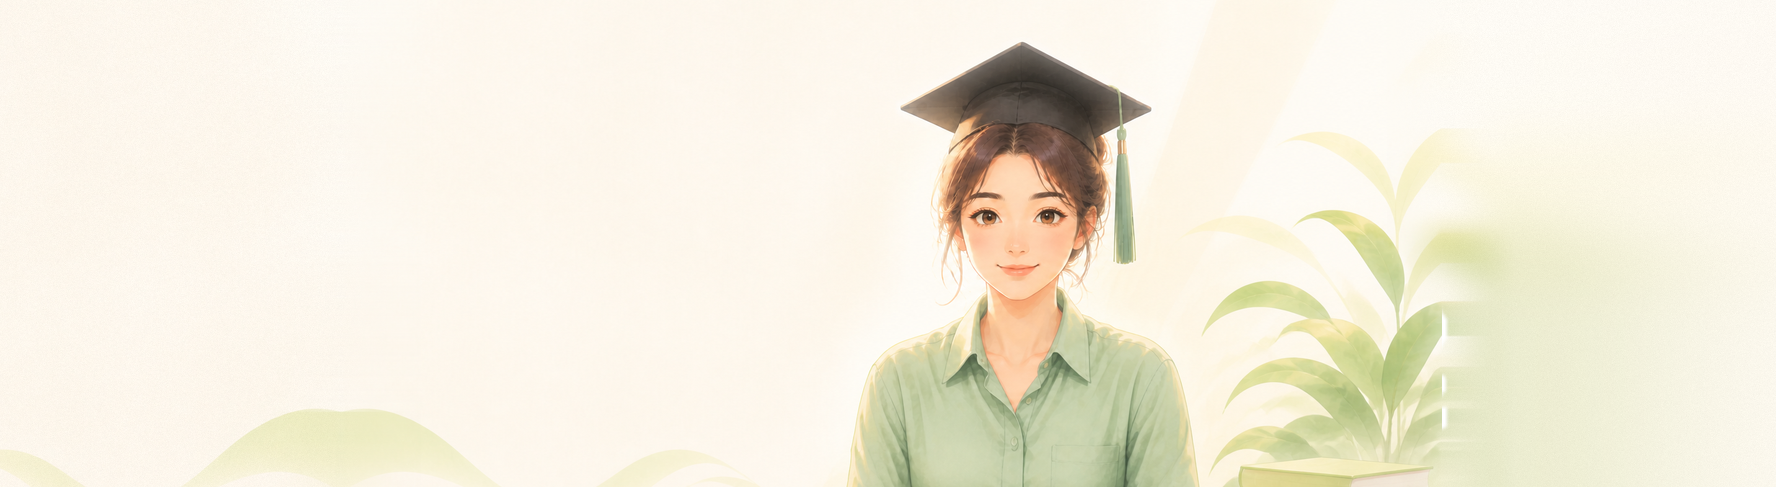
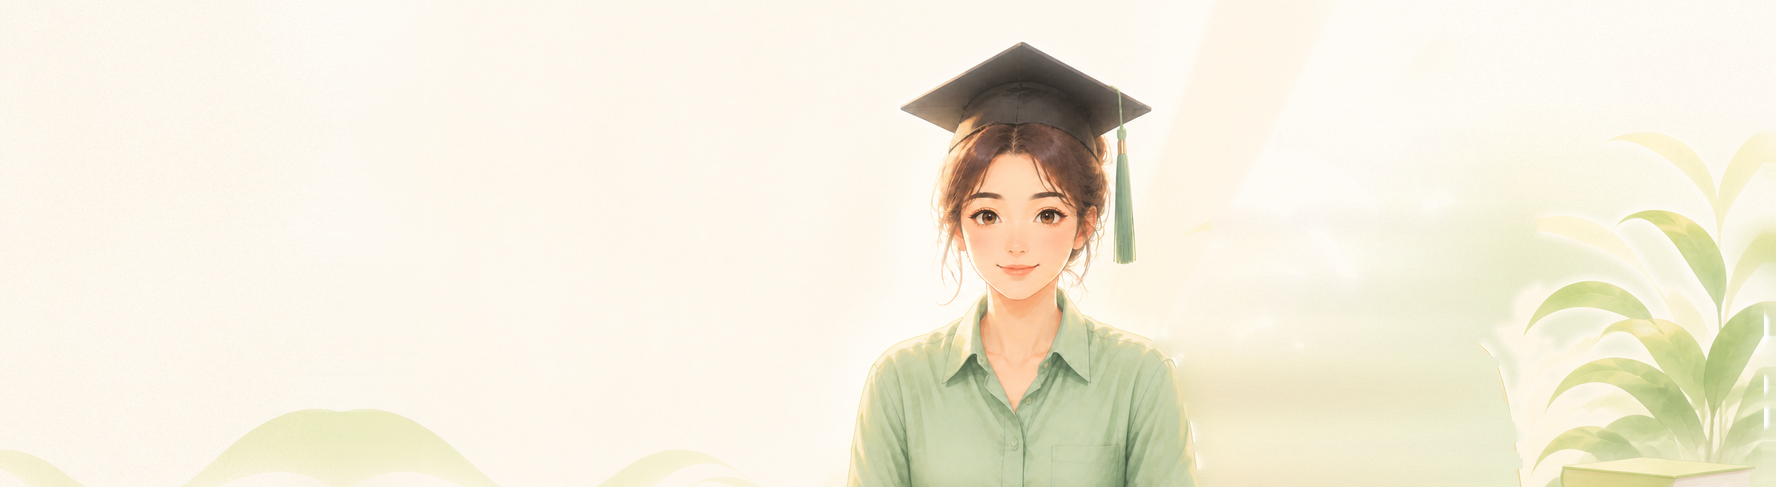
TB-49: 对稿我页签到对齐、直通会员与场次卡背景
未签到把「今天」放回标签行，当天点仍是 28。已签到外圈 37、浅环 34，28 内圈与历史勾都钉在 top 24。场次卡按钮改为「直通会员」，开通会员页标题不动。背景换成 ada81e49。

Changed region(s): [[0.8671, 0.2772, 1.0, 1.0], [0.6503, 0.4312, 0.8671, 1.0], [0.7123, 0.2772, 0.8361, 0.4312]]

diff --git a/apps/mini/src/services/me-entitlement-present.test.ts b/apps/mini/src/services/me-entitlement-present.test.ts
@@ -1,4 +1,5 @@
 import assert from 'node:assert/strict';
+import { createHash } from 'node:crypto';
 import { readFileSync } from 'node:fs';
 import { join } from 'node:path';
 import test from 'node:test';
@@ -19,6 +20,7 @@ import {
   ME_DAILY_SHARE_ROUTE,
   ME_INVITE_META,
   ME_INVITE_ROUTE,
+  ME_OPEN_MEMBER_LABEL,
   ME_LEDGER_MEMBER_META,
   ME_MEMBER_CARD_NOTE,
   ME_MEMBER_CARD_TITLE,
@@ -34,6 +36,7 @@ import {
   presentMeEntitlement,
   presentMeGrowth,
 } from './me-entitlement-present';
+import { MEMBER_PAGE_TITLE } from './membership-present';
 
 const miniRoot = join(__dirname, '../..');
 
@@ -157,6 +160,61 @@ test('签到和分享文案按会员态分支，不改余额', () => {
   assert.equal(presentMeGrowth(false).shareMeta, ME_SHARE_META_FREE);
   assert.equal(presentMeGrowth(true).shareMeta, ME_SHARE_META_MEMBER);
   assert.equal(presentMeGrowth(true).inviteMeta, ME_INVITE_META);
+});
+
+test('我页场次卡按钮是直通会员，开通会员页标题不跟着改', () => {
+  assert.equal(ME_OPEN_MEMBER_LABEL, '直通会员');
+  assert.equal(MEMBER_PAGE_TITLE, '开通会员');
+  const memberConfig = readFileSync(
+    join(miniRoot, 'src/pages/commerce/member/index.config.ts'),
+    'utf8',
+  );
+  const memberPage = readFileSync(join(miniRoot, 'src/pages/commerce/member/index.tsx'), 'utf8');
+  const blocks = readFileSync(join(miniRoot, 'src/pages/me/commerce-blocks.tsx'), 'utf8');
+  const exhausted = readFileSync(join(miniRoot, 'src/services/exhausted-sheet.ts'), 'utf8');
+  assert.match(memberConfig, /navigationBarTitleText: '开通会员'/);
+  assert.match(memberPage, /MEMBER_PAGE_TITLE/);
+  assert.equal(memberPage.includes('直通会员'), false);
+  assert.match(blocks, /ME_OPEN_MEMBER_LABEL/);
+  assert.equal(blocks.includes('开通会员'), false);
+  assert.match(exhausted, /开通会员 · 不限场/);
+  assert.equal(exhausted.includes('直通会员'), false);
+});
+
+test('场次卡只换背景插画，资料卡和会员卡图哈希不动', () => {
+  const quota = readFileSync(join(miniRoot, 'src/pages/me/assets/quota-art-bg.png'));
+  const profile = readFileSync(join(miniRoot, 'src/pages/me/assets/profile-art.png'));
+  const member = readFileSync(join(miniRoot, 'src/pages/me/assets/member-art-bg.png'));
+  assert.equal(
+    createHash('sha256').update(quota).digest('hex'),
[1 lines of base64/hex data omitted]
+  );
+  assert.equal(quota.length, 856306);
+  assert.equal(
+    createHash('sha256').update(profile).digest('hex'),
[1 lines of base64/hex data omitted]
+  );
+  assert.equal(
+    createHash('sha256').update(member).digest('hex'),
[1 lines of base64/hex data omitted]
+  );
+});
+
+test('签到两态：未签到胶囊在标签行，已签到用 37/34/28 套圈', () => {
+  const page = readFileSync(join(miniRoot, 'src/pages/me/index.tsx'), 'utf8');
+  const css = readFileSync(join(miniRoot, 'src/pages/me/commerce.css'), 'utf8');
+  assert.match(page, /ms-lab-row/);
+  assert.match(page, /day\.dot === 'today' \? <Text className="ms-today-pill">今天<\/Text>/);
+  assert.match(page, /ms-dot-today-on/);
+  assert.match(page, /ms-tint-ring/);
+  assert.equal(page.includes('ms-dot-ring'), false);
+  assert.match(css, /\.ms-home \.ms-week-on \.ms-dot-slot \{[^}]*top: 24px/);
+  assert.match(css, /\.ms-home \.ms-week-on \.ms-day-on \.ms-dot-today-on \{[^}]*top: 19\.5px/);
+  assert.match(css, /\.ms-home \.ms-cta-text \{[^}]*font-size: 16px/);
+  assert.match(css, /\.ms-home \.ms-cta-done \.ms-cta-text \{[^}]*font-size: 15px/);
+  assert.match(css, /width: 37px;\s*height: 37px/);
+  assert.match(css, /width: 34px;\s*height: 34px/);
+  assert.match(css, /inset 0 0 0 1\.5px var\(--ts-accent-100\)/);
 });
 
 test('导航只指向会员页、加油包页、明细、任务和增长占位页', () => {

diff --git a/apps/mini/src/pages/me/commerce.css b/apps/mini/src/pages/me/commerce.css
@@ -182,21 +182,49 @@
   padding: 16px 16px 18px;
 }
 
+/* 未签到：周行高 54、items-start，每天含当天都是 28 槽。
+   「今天」胶囊在标签行里，不单独占一行，避免把当天点顶下去。 */
 .ms-home .ms-week {
-  height: auto;
+  height: 54px;
   min-height: 54px;
   padding: 0;
-  align-items: flex-end;
+  gap: 2px;
+  align-items: flex-start;
+  overflow: hidden;
 }
 
 .ms-home .ms-day {
-  gap: 4px;
-  justify-content: flex-end;
+  position: relative;
+  gap: 6px;
+  justify-content: flex-start;
+  align-items: center;
+  padding-bottom: 0;
+  height: 54px;
+}
+
+.ms-home .ms-lab-row {
+  display: flex;
+  flex-direction: row;
+  align-items: center;
+  justify-content: center;
+  gap: 2px;
+  height: 14px;
+  flex-shrink: 0;
+}
+
+.ms-home .ms-day-label {
+  font-weight: 500;
+  line-height: 14px;
+}
+
+.ms-home .ms-day-label-today {
+  color: var(--ts-ink);
+  font-weight: 700;
 }
 
 .ms-home .ms-today-pill {
   height: 14px;
-  padding: 0 6px;
+  padding: 0 4px;
   border-radius: 999px;
   background: var(--ts-accent-100);
   color: var(--ts-accent-700);
@@ -205,12 +233,50 @@
   line-height: 14px;
 }
 
-.ms-home .ms-dot-today {
-  background: var(--ts-tint);
-  box-shadow: none;
+.ms-home .ms-dot-slot {
+  width: 28px;
+  height: 28px;
+  display: flex;
+  align-items: center;
+  justify-content: center;
+  flex-shrink: 0;
 }
 
-.ms-home .ms-dot-ring {
+.ms-home .ms-dot-hollow {
+  box-shadow: inset 0 0 0 1.5px #e7e5e4;
+}
+
+.ms-home .ms-dot-today {
+  background: var(--ts-tint);
+  box-shadow: inset 0 0 0 1.5px var(--ts-accent-100);
+}
+
+.ms-home .ms-dot .ms-check {
+  width: 12px;
+  height: 10px;
+}
+
+/* 已签到：历史 28 点钉在 top 24。当天外圈 37 从 top 19.5 起，
+   34 浅环里的 28 实心勾顶边也是 24，和历史勾对齐，而不是对齐 37 外圈。
+   已签到当天没有「今天」胶囊。 */
+.ms-home .ms-week-on {
+  height: auto;
+  min-height: 57px;
+  overflow: visible;
+}
+
+.ms-home .ms-week-on .ms-day {
+  height: 57px;
+}
+
+.ms-home .ms-week-on .ms-dot-slot {
+  position: absolute;
+  top: 24px;
+  left: 50%;
+  margin-left: -14px;
+}
+
+.ms-home .ms-dot-today-on {
   width: 37px;
   height: 37px;
   border-radius: 999px;
@@ -218,10 +284,29 @@
   display: flex;
   align-items: center;
   justify-content: center;
+  flex-shrink: 0;
 }
 
-.ms-home .ms-dot-ring .ms-dot {
-  box-shadow: 0 0 0 3px var(--ts-tint);
+.ms-home .ms-week-on .ms-day-on .ms-dot-today-on {
+  position: absolute;
+  top: 19.5px;
+  left: 50%;
+  margin-left: -18.5px;
+}
+
+.ms-home .ms-tint-ring {
+  width: 34px;
+  height: 34px;
+  border-radius: 999px;
+  background: var(--ts-tint);
+  display: flex;
+  align-items: center;
+  justify-content: center;
+  flex-shrink: 0;
+}
+
+.ms-home .ms-dot-today-on .ms-dot {
+  box-shadow: none;
 }
 
 .ms-home .ms-cta {
@@ -230,8 +315,21 @@
   gap: 6px;
 }
 
+.ms-home .ms-cta-text {
+  color: #ffffff;
+  font-size: 16px;
+  font-weight: 700;
+  line-height: 22px;
+  letter-spacing: 0.1px;
+}
+
 .ms-home .ms-cta-done {
   background: #ecfcd9;
+}
+
+.ms-home .ms-cta-done .ms-cta-text {
+  color: var(--ts-accent-700);
+  font-size: 15px;
 }
 
 .ms-home .ms-growth-tile {

diff --git a/apps/mini/src/pages/me/index.tsx b/apps/mini/src/pages/me/index.tsx
@@ -211,7 +211,11 @@ export default function MePage() {
       bodyFill={failed}
       backMark={<BridgeBack />}
     >
-      <View className={failed ? `ms-home ms-error-fill ms-theme-${themeId}` : `ms-home ms-theme-${themeId}`}>
+      <View
+        className={
+          failed ? `ms-home ms-error-fill ms-theme-${themeId}` : `ms-home ms-theme-${themeId}`
+        }
+      >
         {!ready && !error ? (
           <View className="ms-body">
             <LoadingBlock label="正在读取个人中心" />
@@ -276,14 +280,28 @@ function MeBody(props: {
             {view.streakText}
           </Text>
         </View>
-        <View className="ms-week">
-          {view.week.map((day) => (
-            <View key={day.label} className="ms-day">
-              <Text className="ms-day-label">{day.label}</Text>
-              {day.dot === 'today' ? <Text className="ms-today-pill">今天</Text> : null}
-              <DayDot dot={day.dot} />
-            </View>
-          ))}
+        <View
+          className={
+            view.week.some((day) => day.dot === 'today-on') ? 'ms-week ms-week-on' : 'ms-week'
+          }
+        >
+          {view.week.map((day) => {
+            const isToday = day.dot === 'today' || day.dot === 'today-on';
+            return (
+              <View
+                key={day.label}
+                className={day.dot === 'today-on' ? 'ms-day ms-day-on' : 'ms-day'}
+              >
+                <View className="ms-lab-row">
+                  <Text className={isToday ? 'ms-day-label ms-day-label-today' : 'ms-day-label'}>
+                    {day.label}
+                  </Text>
+                  {day.dot === 'today' ? <Text className="ms-today-pill">今天</Text> : null}
+                </View>
+                <DayDot dot={day.dot} />
+              </View>
+            );
+          })}
         </View>
         <Text className="ms-checkin-note">{props.checkinNote}</Text>
         <View
@@ -362,24 +380,36 @@ function Stat(props: { label: string; value: string; unit?: string; muted?: bool
 function DayDot(props: { dot: WeekDot }) {
   if (props.dot === 'today-on') {
     return (
-      <View className="ms-dot-ring">
-        <View className="ms-dot ms-brand-bg">
-          <CheckMark />
+      <View className="ms-dot-today-on">
+        <View className="ms-tint-ring">
+          <View className="ms-dot ms-brand-bg">
+            <CheckMark />
+          </View>
         </View>
       </View>
     );
   }
   if (props.dot === 'past') {
     return (
-      <View className="ms-dot ms-brand-bg">
-        <CheckMark />
+      <View className="ms-dot-slot">
+        <View className="ms-dot ms-brand-bg">
+          <CheckMark />
+        </View>
       </View>
     );
   }
   if (props.dot === 'today') {
-    return <View className="ms-dot ms-dot-today" />;
+    return (
+      <View className="ms-dot-slot">
+        <View className="ms-dot ms-dot-today" />
+      </View>
+    );
   }
-  return <View className="ms-dot ms-dot-hollow" />;
+  return (
+    <View className="ms-dot-slot">
+      <View className="ms-dot ms-dot-hollow" />
+    </View>
+  );
 }
 
 function MenuRow(props: {

diff --git a/apps/mini/src/services/me-entitlement-present.ts b/apps/mini/src/services/me-entitlement-present.ts
@@ -6,7 +6,8 @@ import { BUSINESS_TZ, type EntitlementBalances, type EntitlementView } from '@ti
 
 export const ME_USAGE_TITLE = '今日剩余场次';
 export const ME_USAGE_UNIT = '场';
-export const ME_OPEN_MEMBER_LABEL = '开通会员';
+/** 「我」页场次卡按钮。开通会员页标题是 MEMBER_PAGE_TITLE，两处分开，不跟着这颗按钮改。 */
+export const ME_OPEN_MEMBER_LABEL = '直通会员';
 export const ME_MEMBER_CARD_TITLE = '题刷刷会员 · 生效中';
 export const ME_MEMBER_CARD_NOTE = '提炼不限 · 可升级补差价续费';
 export const ME_LEDGER_TITLE = '场次明细';
